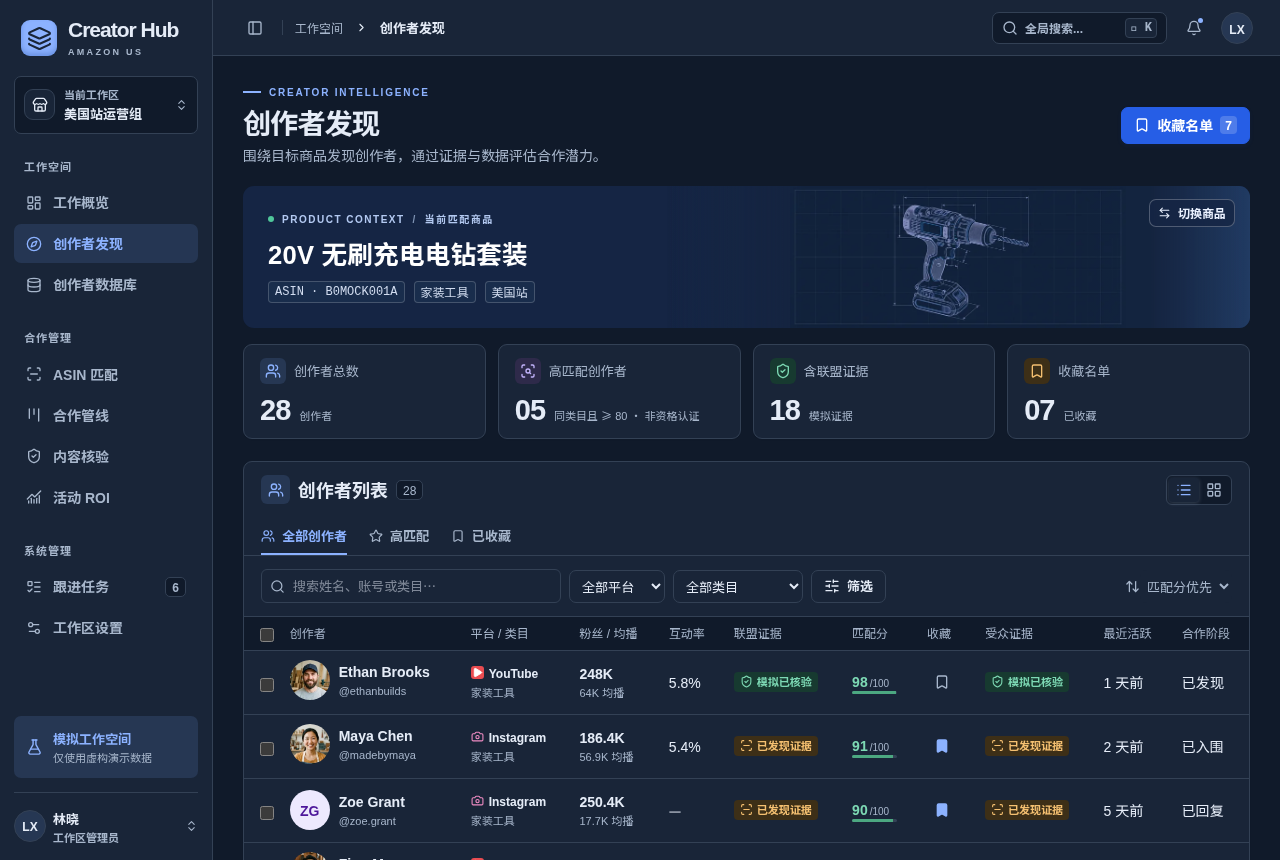
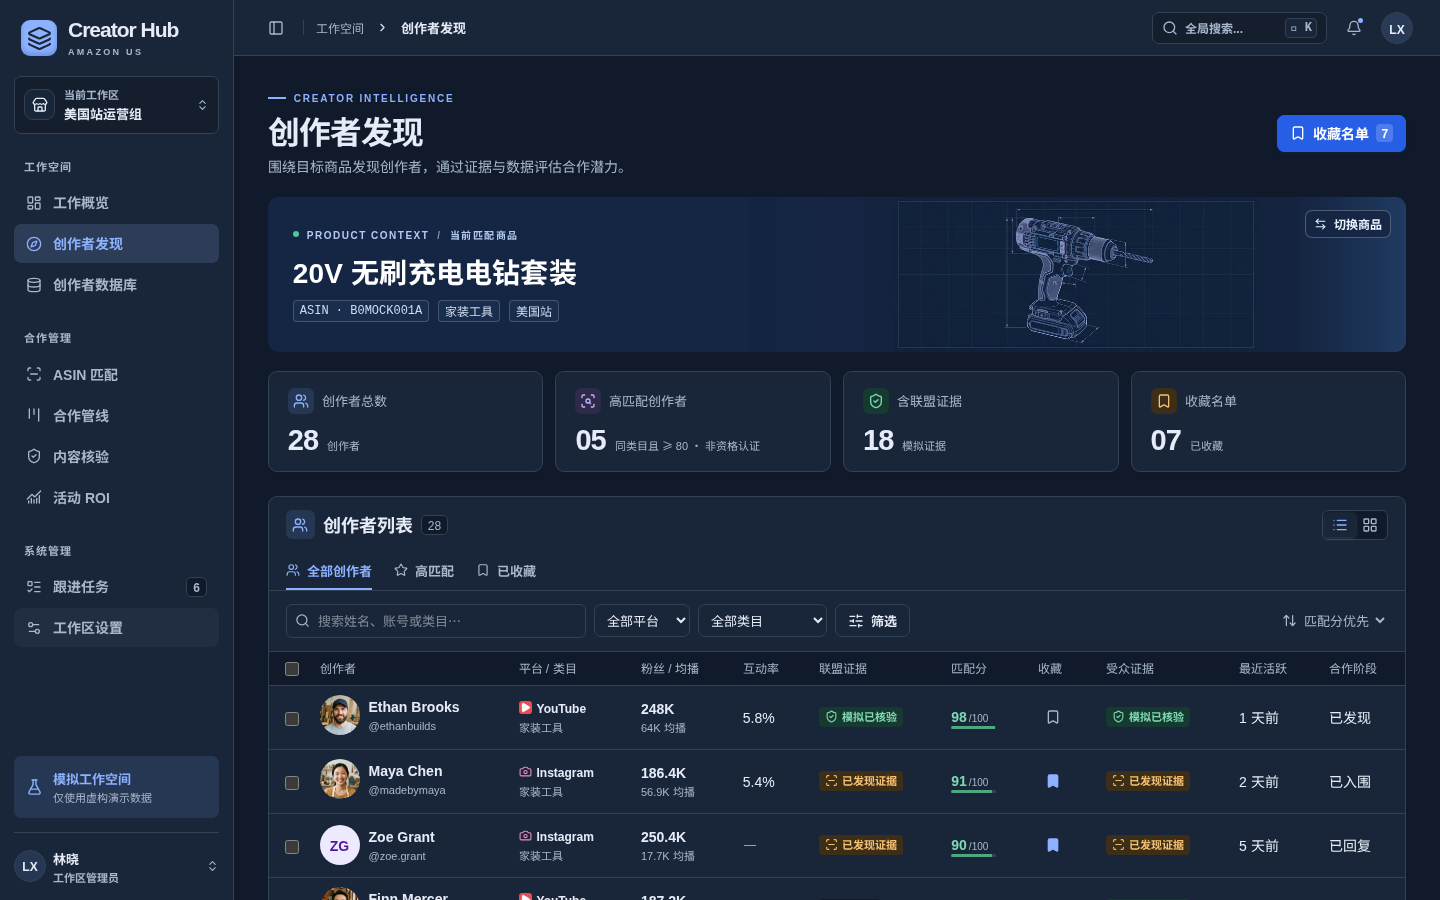
docs: record 81ebff6 verification, P1 architecture handoff, refresh logs and screenshots

diff --git a/CODEX-HANDOFF.md b/CODEX-HANDOFF.md
@@ -16,7 +16,34 @@
 | `tests/hub.test.mjs` | +3：严格预算格式与上限；批量加入活动范围与原因；两种批量操作范围判定一致。 |
 | `tests/hub.spec.mjs` | +2 场景（A→B→A、批量加入活动），预算场景扩充。 |
 
-验证（本轮）：`tsc --noEmit` 0 错误；`node --test --experimental-strip-types tests/hub.test.mjs tests/glyphs.test.mjs` 11 / 11 通过；Playwright 11 / 11 通过（见 `E2E-RESULTS.md`）。本轮未重跑生产构建与截图。
+验证（本轮，提交 81ebff6，Node v24.16.0 / npm 11.13.0；日志见 `TEST-LOGS/`）：
+
+| 检查 | 结果 |
+| --- | --- |
+| 隔离工作树 `npm ci`（`env -i`，无 .env） | 退出 0 |
+| 隔离工作树 `npm run build` | 退出 0，路由只有 `/` 与 `/_not-found` |
+| `tsc --noEmit` | 退出 0 |
+| `node --test --experimental-strip-types tests/hub.test.mjs tests/glyphs.test.mjs` | 11 / 11 通过 |
+| Playwright | 11 / 11 通过（含 A→B→A、跨商品加入活动、预算格式、筛选与草稿保护） |
+| 旧 CRM 路由（dev 服务器 curl） | `/api/discover`、`/api/apify`、`/api/avatar`、`/campaigns`、`/creators`、`/pipeline`、`/login` 均 404 |
+| 外网请求 | Playwright fixture 拦截非本源请求并断言为空；深色截图脚本同样记录为空 |
+| 截图 | 1440/1024/768/390 与三张深色主题均已重拍并人工查看 |
+
+本文件仅为开发自检记录，不构成独立审核签字。
+
+## P1 架构问题（交给 Codex，本轮不实现）
+
+1. **同步调用不能直接换成 API。** `discovery.tsx`、`pipeline.tsx`、`profile.tsx` 现在同步调用 `service.shortlist` / `moveStage` / `applyBulk`，然后立刻写入本地状态。只把 `service` 换成 fetch 不够。后端需要异步 Repository + UseCase 层，前端要处理 pending / 失败回滚 / 冲突提示。
+2. **写操作必须有版本检查与幂等。** 每条合作记录带 `version`（乐观锁），批量操作带客户端生成的 `Idempotency-Key`。服务端按 `planBulk` 的同一规则重新判定 ASIN 范围，并返回 changed / skipped 明细。不能信任前端的计划结果。
+3. **金额。** 前端 `parseBudgetCents` 只做输入校验。生产环境用 `numeric(12,2)` 或整数分 `bigint` 存储，服务端用 Decimal 或整数分计算，不用 JS Number 作为最终财务值。
+4. **生产数据模型拆分**（不要在 v0 封版中开发）：
+   - `Identity`（真人）1—N `SocialAccount`（平台账号、粉丝等快照）
+   - `Product`（ASIN）
+   - `Collaboration`（Identity × Product × Workspace，阶段、预算、负责人、版本号）：一个真人可以有多个 ASIN 合作
+   - `Evidence`（关联 Collaboration 或 SocialAccount）
+   - `Event`（只追加的操作历史）
+   - `Bookmark`（用户 × Identity 收藏，与合作阶段独立）
+5. 加入推广活动不等于入围；收藏不改变阶段。两条规则在后端 UseCase 中也必须保持。
 
 ## 上一轮改动清单（a532e4d → 564b96b）
 
@@ -47,7 +74,7 @@
 
 ## 已知限制 / 交给 Codex
 
-1. 状态只存在客户端内存，刷新会丢失；`lib/hub.ts` 的 `service` 是唯一替换点，接入独立系统的后端时保持函数签名即可。
+1. 状态只存在客户端内存，刷新会丢失。`lib/hub.ts` 的 `service` 集中了业务规则，但它是同步接口，接入后端时需要按上文"P1 架构问题"改为异步 UseCase，不能只替换函数实现。
 2. 深色主题是应用内开关，未跟随系统设置，也未持久化。
 3. 未保存草稿保护覆盖档案内的预算、备注和日期：应用内切页、关闭档案时会确认，刷新或关闭标签由 `beforeunload` 提示；草稿本身不持久化。
 4. 匹配分规则（同类目且 ≥ 80 才算高匹配）是演示规则，真实评分需由后端提供。
